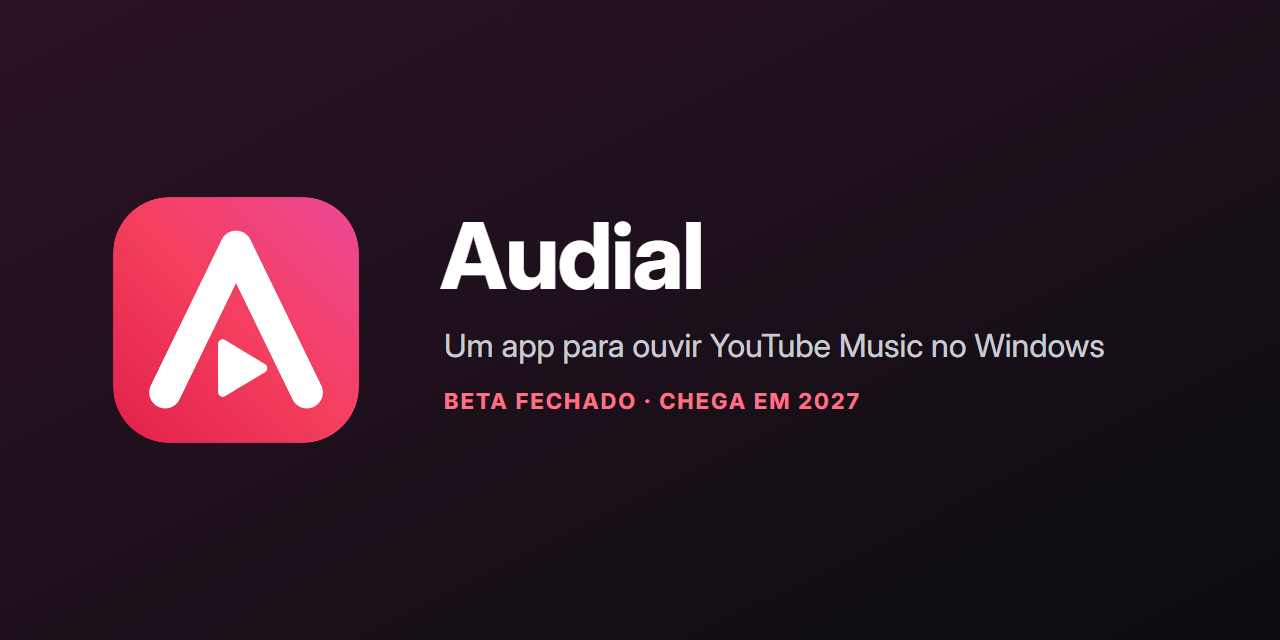
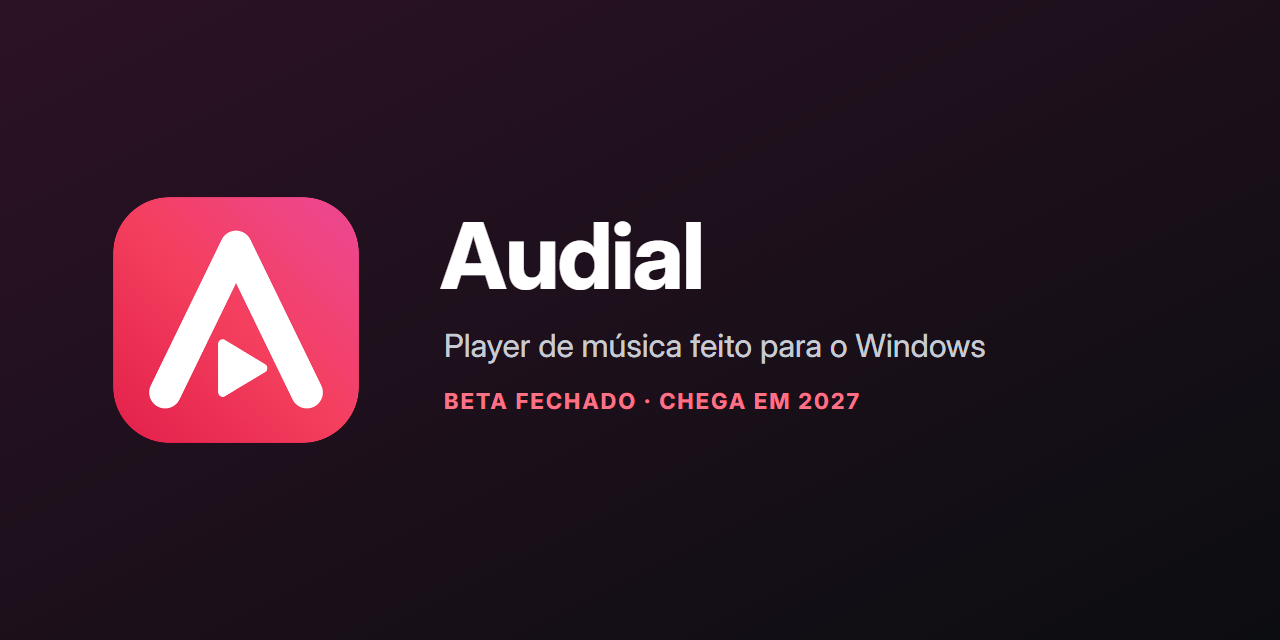
Site: tira YouTube Music da chamada, do título e da imagem de compartilhamento

Changed region(s): [[0.3438, 0.5, 0.875, 0.5625]]

diff --git a/site/index.html b/site/index.html
@@ -3,12 +3,12 @@
 <head>
 <meta charset="utf-8">
 <meta name="viewport" content="width=device-width, initial-scale=1">
-<title>Audial · Um app para ouvir YouTube Music no Windows</title>
-<meta name="description" content="App nativo para Windows que toca YouTube Music, com interface Fluent, mini player, ouvir junto com amigos e status no Discord. Grátis. Projeto independente.">
+<title>Audial · Player de música feito para o Windows</title>
+<meta name="description" content="Player de música nativo para Windows, com interface Fluent, mini player, ouvir junto com amigos e status no Discord. Grátis. Projeto independente.">
 <meta name="theme-color" content="#0D0E12">
-<meta property="og:title" content="Audial · Um app para ouvir YouTube Music no Windows">
+<meta property="og:title" content="Audial · Player de música feito para o Windows">
 <meta property="og:description" content="Interface Fluent, mini player, ouvir junto e status no Discord. Sem Electron.">
-<meta property="og:image" content="https://audial.com.br/img/og.png?v=2">
+<meta property="og:image" content="https://audial.com.br/img/og.png?v=3">
 <meta property="og:url" content="https://audial.com.br/">
 <meta property="og:type" content="website">
 <link rel="canonical" href="https://audial.com.br/">
@@ -58,8 +58,8 @@
       </a>
       <h1 class="headline">
         <span class="word" style="--d:1">Ouça</span>
-        <span class="nowrap"><span class="word" style="--d:2">YouTube</span>
-        <span class="word" style="--d:3">Music</span></span>
+        <span class="nowrap"><span class="word" style="--d:2">suas</span>
+        <span class="word" style="--d:3">músicas</span></span>
         <br>
         <span class="word shine" style="--d:4">num</span>
         <span class="word shine" style="--d:5">app</span>
@@ -138,7 +138,7 @@
     <div class="wrap">
       <div class="section-head reveal">
         <span class="kicker">Recursos</span>
-        <h2>Tudo o que o YouTube Music <span class="grad">deveria ser</span> no PC.</h2>
+        <h2>Tudo o que um player de música <span class="grad">deveria ser</span> no PC.</h2>
         <p>Um app de verdade, que abre rápido, fica no lugar certo e conversa com o resto do Windows.</p>
       </div>
 
@@ -314,7 +314,7 @@
             <span class="tl-dot" aria-hidden="true"><svg viewBox="0 0 24 24"><path d="m5 12.5 4.5 4.5L19 7.5"/></svg></span>
             <article class="tl-card glass reveal">
               <h3>Começou com uma pergunta</h3>
-              <p>Dá pra ter o YouTube Music como um app de verdade no PC, sem usar o site? Daí saíram o plano do app e um design de vidro escuro pensado para o Windows 11.</p>
+              <p>Dá pra ouvir música no PC num app de verdade, sem depender de uma aba do navegador? Daí saíram o plano do app e um design de vidro escuro pensado para o Windows 11.</p>
               <div class="chips"><span>App nativo</span><span>Vidro escuro</span><span>Windows 11</span></div>
             </article>
           </li>

diff --git a/site/termos.html b/site/termos.html
@@ -5,7 +5,7 @@
 <meta name="viewport" content="width=device-width, initial-scale=1">
 <title>Termos de uso · Audial</title>
 <link rel="canonical" href="https://audial.com.br/termos">
-<meta name="description" content="Termos de uso do Audial, cliente independente de YouTube Music para Windows.">
+<meta name="description" content="Termos de uso do Audial, player de música independente para Windows.">
 <meta name="theme-color" content="#0D0E12">
 <link rel="icon" href="/favicon.png?v=2" type="image/png">
 <link rel="preconnect" href="https://fonts.googleapis.com">
